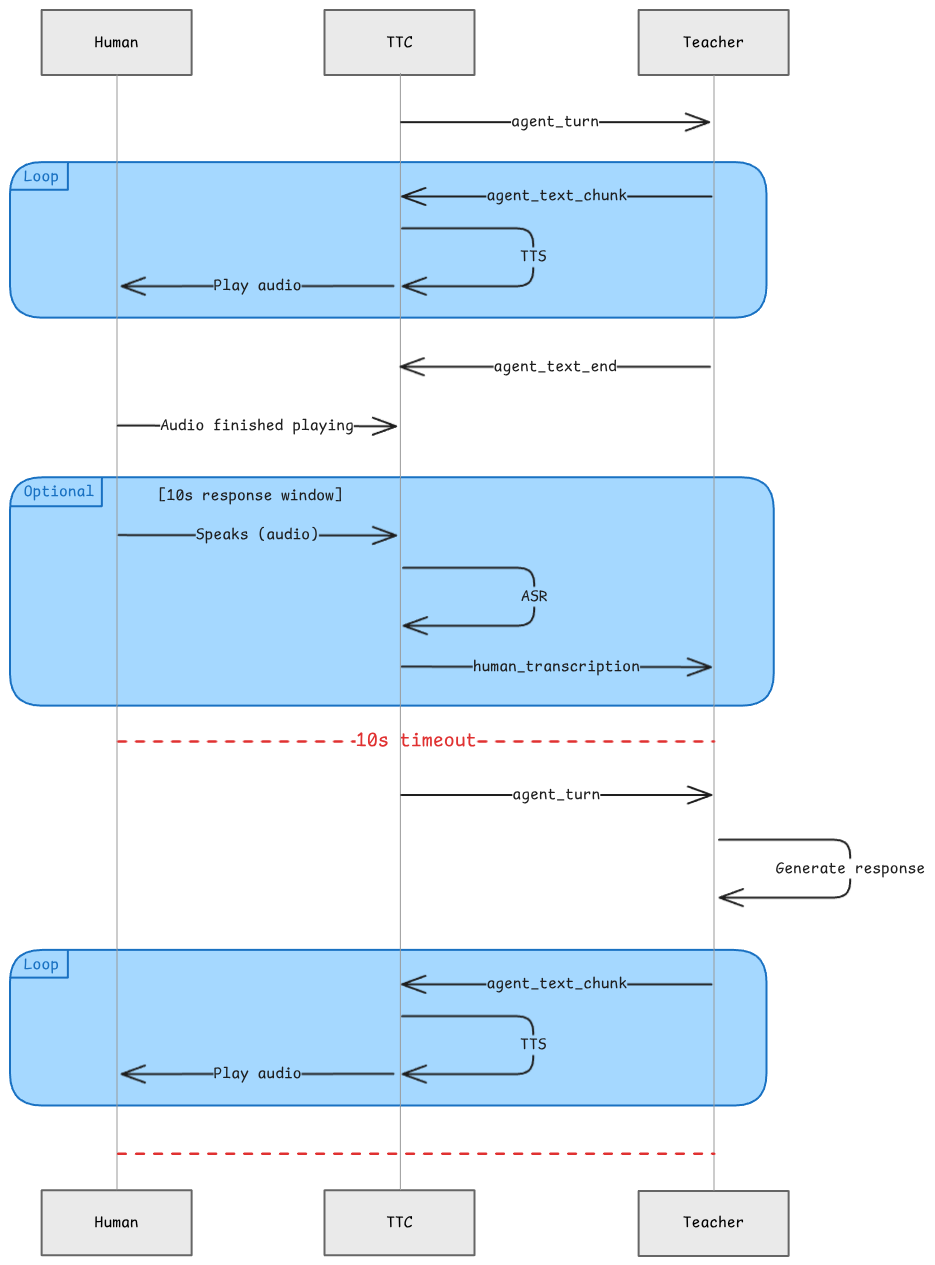
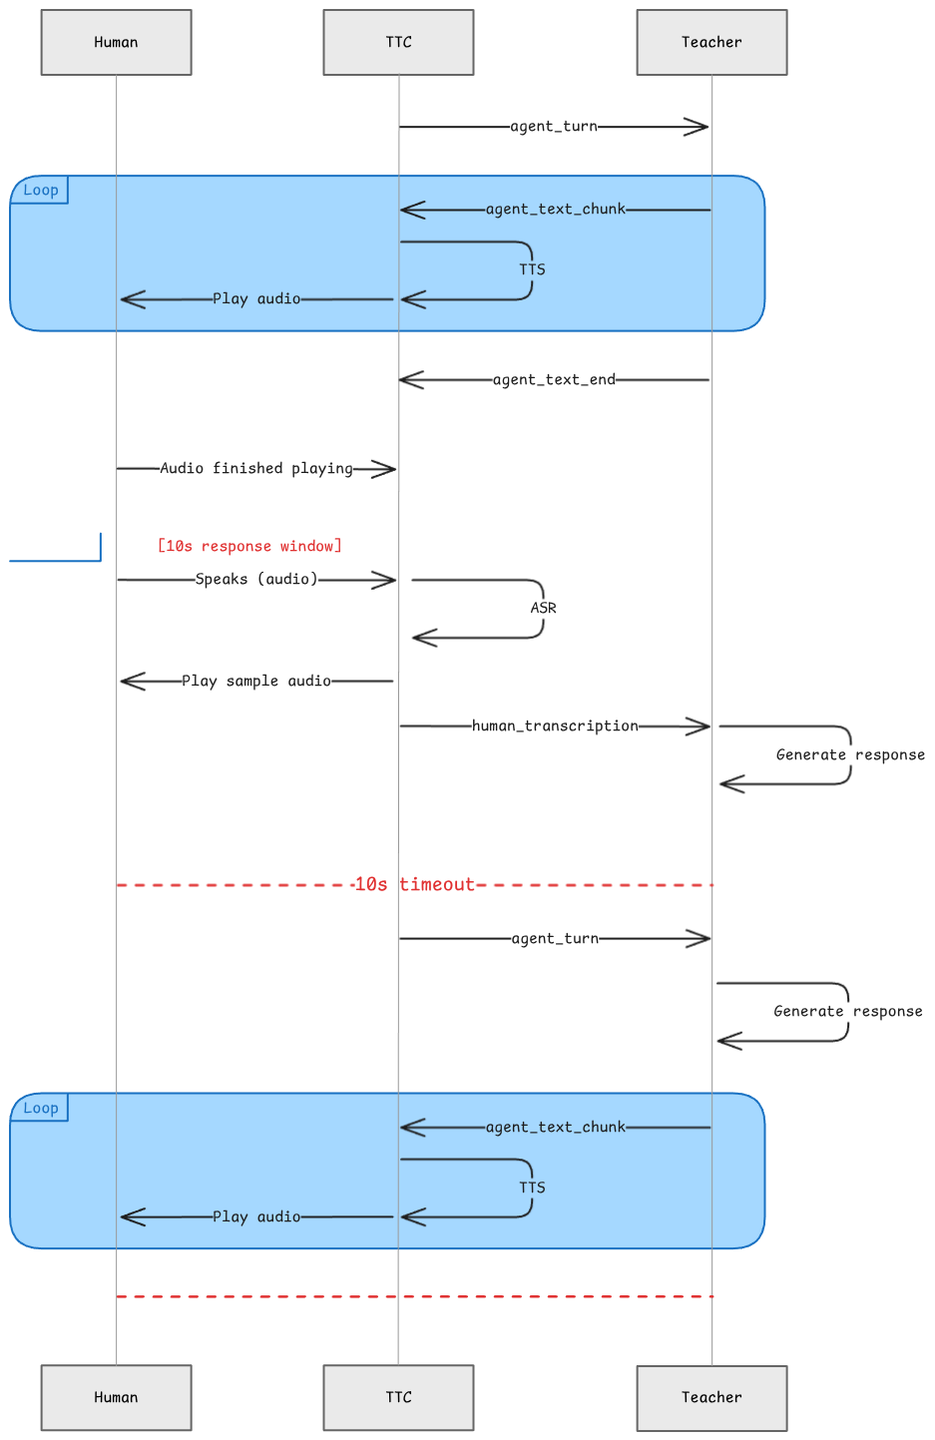
finish system design

diff --git a/report/components/system_design.tex b/report/components/system_design.tex
@@ -5,9 +5,24 @@ To implement the proposed multy-party dialog project, we designed and orchestrat
 
 \subsection{Architecture Overview}
 
-As it can be seen in \autoref{fig:architectures}, the project is divided into 3 programs which work strategically together; Turn-taking Controller (TTC), Teacher and Student. The communication between the programs is based in a TCP socket connection where the TTC acts as the server and the Teacher and Student function as clients. The information which is transmitted through the sockets are serialized json objects containing events information, in \autoref{lst:json-event-example} an example of serialized JSON event can be seen.
+As it can be seen in \autoref{fig:architecture}, the project is divided into 3 programs which work strategically together; Turn-taking Controller (TTC), Teacher and Student. The communication between the programs is based in a TCP socket connection where the TTC acts as the server and the Teacher and Student function as clients. The information which is transmitted through the sockets are serialized json objects containing events information, in \autoref{tab:socket-events} a list of all the possible events is shown and in \autoref{lst:json-event-example} an example of serialized JSON event can be seen.
 
-
+\begin{table*}[htbp]
+\small
+\centering
+\begin{tabular}{llll}
+\toprule
+\textbf{Event} & \textbf{Sender} & \textbf{Receiver} & \textbf{Description} \\ \midrule
+\texttt{human\_transcription} & TTC & Teacher \& Student & Human speech transcription \\
+\texttt{agent\_turn} & TTC & Teacher \& Student & Signal for agent to start turn \\
+\texttt{agent\_turn\_cancelled} & TTC & Teacher \& Student & Turn cancelled (interrupted) \\
+\texttt{agent\_text\_chunk} & Teacher \& Student & TTC & Streamed text chunk from agent stream \\
+\texttt{agent\_text\_end} & Teacher \& Student & TTC & End of agent response \\
+\bottomrule
+\end{tabular}
+\caption{Socket events between TTC server and clients}
+\label{tab:socket-events}
+\end{table*}
 
 \begin{lstlisting}[
   language=json,
@@ -22,8 +37,6 @@ As it can be seen in \autoref{fig:architectures}, the project is divided into 3 
     "ts": 1713187200000
 }
 \end{lstlisting}
-
-
 
 \subsubsection{TTC}
 The TTC acts a the TCP server where the teacher and student establish connections to it. Furthermore, the TTC has 2 main roles. First, managing all the events happening in the system and taking decisions based on the status of the system. Second, handling all the information extracted from and trasmitted to the human. It is composed by 3 internal components:
@@ -60,30 +73,24 @@ This section will give an overview of the workflow of the system for both experi
 % TODO: Mention all the possible events that can be sent through the sockets
 
 \subsubsection{With peer student}
-\autoref{fig:seq_combined} shows the sequence diagram of the system. First, once both clients are connected to the TTC, the latter sends the \texttt{agent\_turn} to the Teacher which starts streaming a pre-generated initial lesson. Once the Teacher has finished streaming the lesson to the TTC, it emits a \texttt{agent\_text\_end} event signaling that it has finished streaming text. Afterwards, the TTC performs two actions in parallel; First, it starts bounces the \texttt{agent\_text\_end} event to the Student so the student can start generating its own possible intervention. While
+\label{sec:workflow_peer_student}
+
+\autoref{fig:seq_combined} illustrates the system's sequence diagram. The interaction begins once both clients connect to the TTC, which sends an \texttt{agent\_turn} event to the teacher to initiate streaming of a pre-generated lesson. As text chunks arrive from the teacher, the TTC converts them to audio via TTS and plays them immediately. When the teacher finishes streaming, it emits an \texttt{agent\_text\_end} event to signal completion. The TTC relays this event to the Student, enabling it to prepare a potential response based on the Teacher's content.
+
+After the audio playback concludes, the system allocates a 10-second response window. If the ASR detects and transcribes speech, a \texttt{human\_transcription} is sent to the Teacher. A brief acknowledgment audio is then played to allow the Teacher processing time. Conversely, if no speech is detected, the Student is prompted via an \texttt{agent\_turn} event to contribute its pre-generated text, which follows the same workflow as the initial Teacher input---including bouncing the \texttt{agent\_text\_end} event to the Teacher for response generation.
+
+Regardless of which branch executes, the Teacher must formulate a response to either the human or the student's contribution. This is signaled by sending an \texttt{agent\_turn} event, which instructs the Teacher to speak.
 
 \subsubsection{Without peer student}
+\label{sec:workflow_without_peer_student}
+\autoref{fig:seq_teacher} illustrates the simplified sequence diagram for the teacher-student interaction. The workflow mirrors \autoref{sec:workflow_peer_student} with two key differences:
 
-\autoref{fig:seq_combined} shows a sequence diagram of the teacher-student worfkflow.
+\begin{enumerate}[noitemsep, leftmargin=*]
+  \item The \texttt{agent\_text\_end} event is sent directly from the Teacher to the TTC without relaying to a Student agent, as there is no peer student in the system.
+  \item If no speech is detected during the 10-second response window, the Teacher automatically receives an \texttt{agent\_turn} event to continue elaborating on the taught topic, rather than waiting for a student agent response.
+\end{enumerate}
 
-
-\begin{table*}[htbp]
-\small
-\centering
-\begin{tabular}{llll}
-\toprule
-\textbf{Event} & \textbf{Sender} & \textbf{Receiver} & \textbf{Description} \\ \midrule
-\texttt{human\_transcription} & All Clients & TTC & Human speech transcription \\
-\texttt{agent\_text\_chunk} & TTC & All clients & Text chunk from agent stream \\
-\texttt{agent\_text\_end} & TTC & All clients & End of agent response \\
-\texttt{agent\_turn} & TTC & Client & Signal for agent to start turn \\
-\texttt{agent\_turn\_cancelled} & TTC & Client & Turn cancelled (interrupted) \\ \bottomrule
-\end{tabular}
-\caption{Socket events between TTC server and clients}
-\label{tab:socket-events}
-\end{table*}
-
-
+The core interaction loop remains identical: the Teacher streams text chunks, the TTC converts them to audio via TTS and plays them, and the human has an opportunity to respond. However, without the Student's pre-generated input branch, the system either processes the human's transcribed speech or prompts the Teacher to continue the lesson.
 
 \subsection{Technology Stack}
 

diff --git a/report/components/introduction.tex b/report/components/introduction.tex
@@ -1,23 +1,12 @@
 \section{Introduction}
 \label{sec:introduction}
-% ============================================================
-% MARKING CRITERION: "Abstract, Aims, Objectives and Project Description" [10 marks]
-%   - Research aims of project are clear
-
-%\guidance{%
-%  MARKING: The introduction also contributes to the ``Aims, Objectives and
-%  Project Description'' criterion (10 marks). Make the research aims and
-%  objectives of the project unmistakably clear. The marker will look for:
-%  (a) a well-motivated problem statement, (b) explicit research aims /
-%  objectives, (c) a summary of the approach taken, and (d) a roadmap of
-%  the report.}
 
 \subsection{Problem Statement and Motivation}
-While LLM-based educational agents offer high linguistic fluency, 
-most existing systems rely on dyadic (one-on-one) text interactions that fail to capture the social dynamics of classroom learning. 
-A key pedagogical gap lies in the absence of vicarious learning, the process where students gain knowledge by observing interactions between others. 
-Passive learners often struggle to identify their own knowledge gaps, a problem exacerbated by the cognitive load of managing a dialogue. 
-By moving away from text-only interfaces toward a triadic, real-time spoken "fictive dialogue", 
+While LLM-based educational agents offer high linguistic fluency,
+most existing systems rely on dyadic (one-on-one) text interactions that fail to capture the social dynamics of classroom learning.
+A key pedagogical gap lies in the absence of vicarious learning, the process where students gain knowledge by observing interactions between others.
+Passive learners often struggle to identify their own knowledge gaps, a problem exacerbated by the cognitive load of managing a dialogue.
+By moving away from text-only interfaces toward a triadic, real-time spoken "fictive dialogue",
 we can simulate a more natural and effective learning environment that triggers deeper reflection through agentic exchanges.
 
 % Describe the broader context and why this problem matters.
@@ -33,23 +22,11 @@ The specific objectives are:
   \item To evaluate the impact of a "synthetic peer" on user engagement and conceptual retention through controlled human testing.
 \end{enumerate}
 
-%\guidance{%
-%  State your aims and objectives explicitly. Consider using a short
-%  enumerated list so the marker can see them at a glance.}
-
-% Example:
-% The aims of this project are:
-% \begin{enumerate}[noitemsep]
-%   \item To implement ...
-%   \item To evaluate ...
-%   \item To investigate ...
-% \end{enumerate}
-
 \subsection{Experimental overview}
 
-To demonstrate the effectiveness of our hypothesis, we conducted a user study comparing two pedagogical conditions: 
+To demonstrate the effectiveness of our hypothesis, we conducted a user study comparing two pedagogical conditions:
 a standard dyadic interaction (Teacher-Human) and our proposed triadic fictive dialog (Teacher-Student-Human).
 
-Participants are tasked with learning a specific topic through a spoken session in real-time. 
-We measure learning gains through pre- and post-interaction assessments, while qualitative engagement is captured through subjective questionnaires. 
+Participants are tasked with learning a specific topic through a spoken session in real-time.
+We measure learning gains through pre- and post-interaction assessments, while qualitative engagement is captured through subjective questionnaires.
 This setup allows us to isolate the impact of the Student Agent’s interjections on the user’s understanding and overall experience.

diff --git a/report/report.tex b/report/report.tex
@@ -126,16 +126,16 @@
 
 \begin{figure}[H]
   \centering
-  \includegraphics[width=0.72\textwidth,height=0.85\textheight,keepaspectratio]{figures/teacher_seq_diagram.png}
-  \caption{Sequence diagram of the teacher-only interaction workflow.}
-  \label{fig:seq_teacher}
+  \includegraphics[width=\textwidth,height=0.85\textheight,keepaspectratio]{figures/teacher_student_seq_diagram.png}
+  \caption{Sequence diagram of the combined teacher--student interaction workflow.}
+  \label{fig:seq_combined}
 \end{figure}
 
 \begin{figure}[H]
   \centering
-  \includegraphics[width=\textwidth,height=0.85\textheight,keepaspectratio]{figures/teacher_student_seq_diagram.png}
-  \caption{Sequence diagram of the combined teacher--student interaction workflow.}
-  \label{fig:seq_combined}
+  \includegraphics[width=0.72\textwidth,height=0.85\textheight,keepaspectratio]{figures/teacher_seq_diagram.png}
+  \caption{Sequence diagram of the teacher-only interaction workflow.}
+  \label{fig:seq_teacher}
 \end{figure}
 
 \section{Questionnaire}
